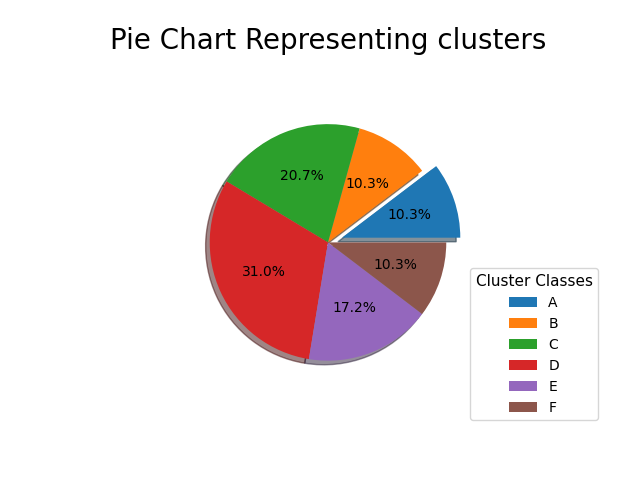
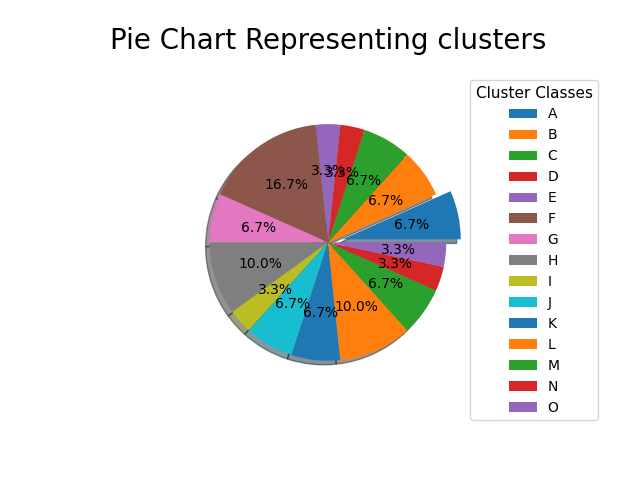
added image in user cluster

Changed region(s): [[0.3125, 0.25, 0.7188, 0.7812], [0.7188, 0.1562, 0.9375, 0.875]]

diff --git a/server/usercluster.html b/server/usercluster.html
@@ -14,7 +14,7 @@
       content="width=device-width, initial-scale=1.0, user-scalable=no, minimum-scale=1.0, maximum-scale=1.0"
     />
 
-    <title>Add Student Details</title>
+    <title>User Cluster</title>
 
     <meta name="description" content="" />
 
@@ -219,7 +219,8 @@
                       </form>
                     </div>
                   </div>
-
+                  <div class='card' id="cluster-img" style="display:flex; align-items: center;" width="60%"></div>
+                  <br><br>
                   <div class="card">
                     <h5 class="card-header"> Cluster Summary</h5>
                     <div class="table-responsive text-nowrap" id="clusterdetails">
@@ -281,5 +282,6 @@
 
     <!-- Place this tag in your head or just before your close body tag. -->
     <script async defer src="https://buttons.github.io/buttons.js"></script>
+    
   </body>
 </html>

diff --git a/server/userdashboard.html b/server/userdashboard.html
@@ -272,7 +272,7 @@
                     <div class="card-title d-flex align-items-start justify-content-between">
                       
                     </div>
-                    <h3 class="card-title mb-2">Position in Extra-circular</h3>
+                    <h3 class="card-title mb-2">Position in Extra-curricular</h3>
                     <h3 id="position"></h3>
                   </div>
                 </div>
